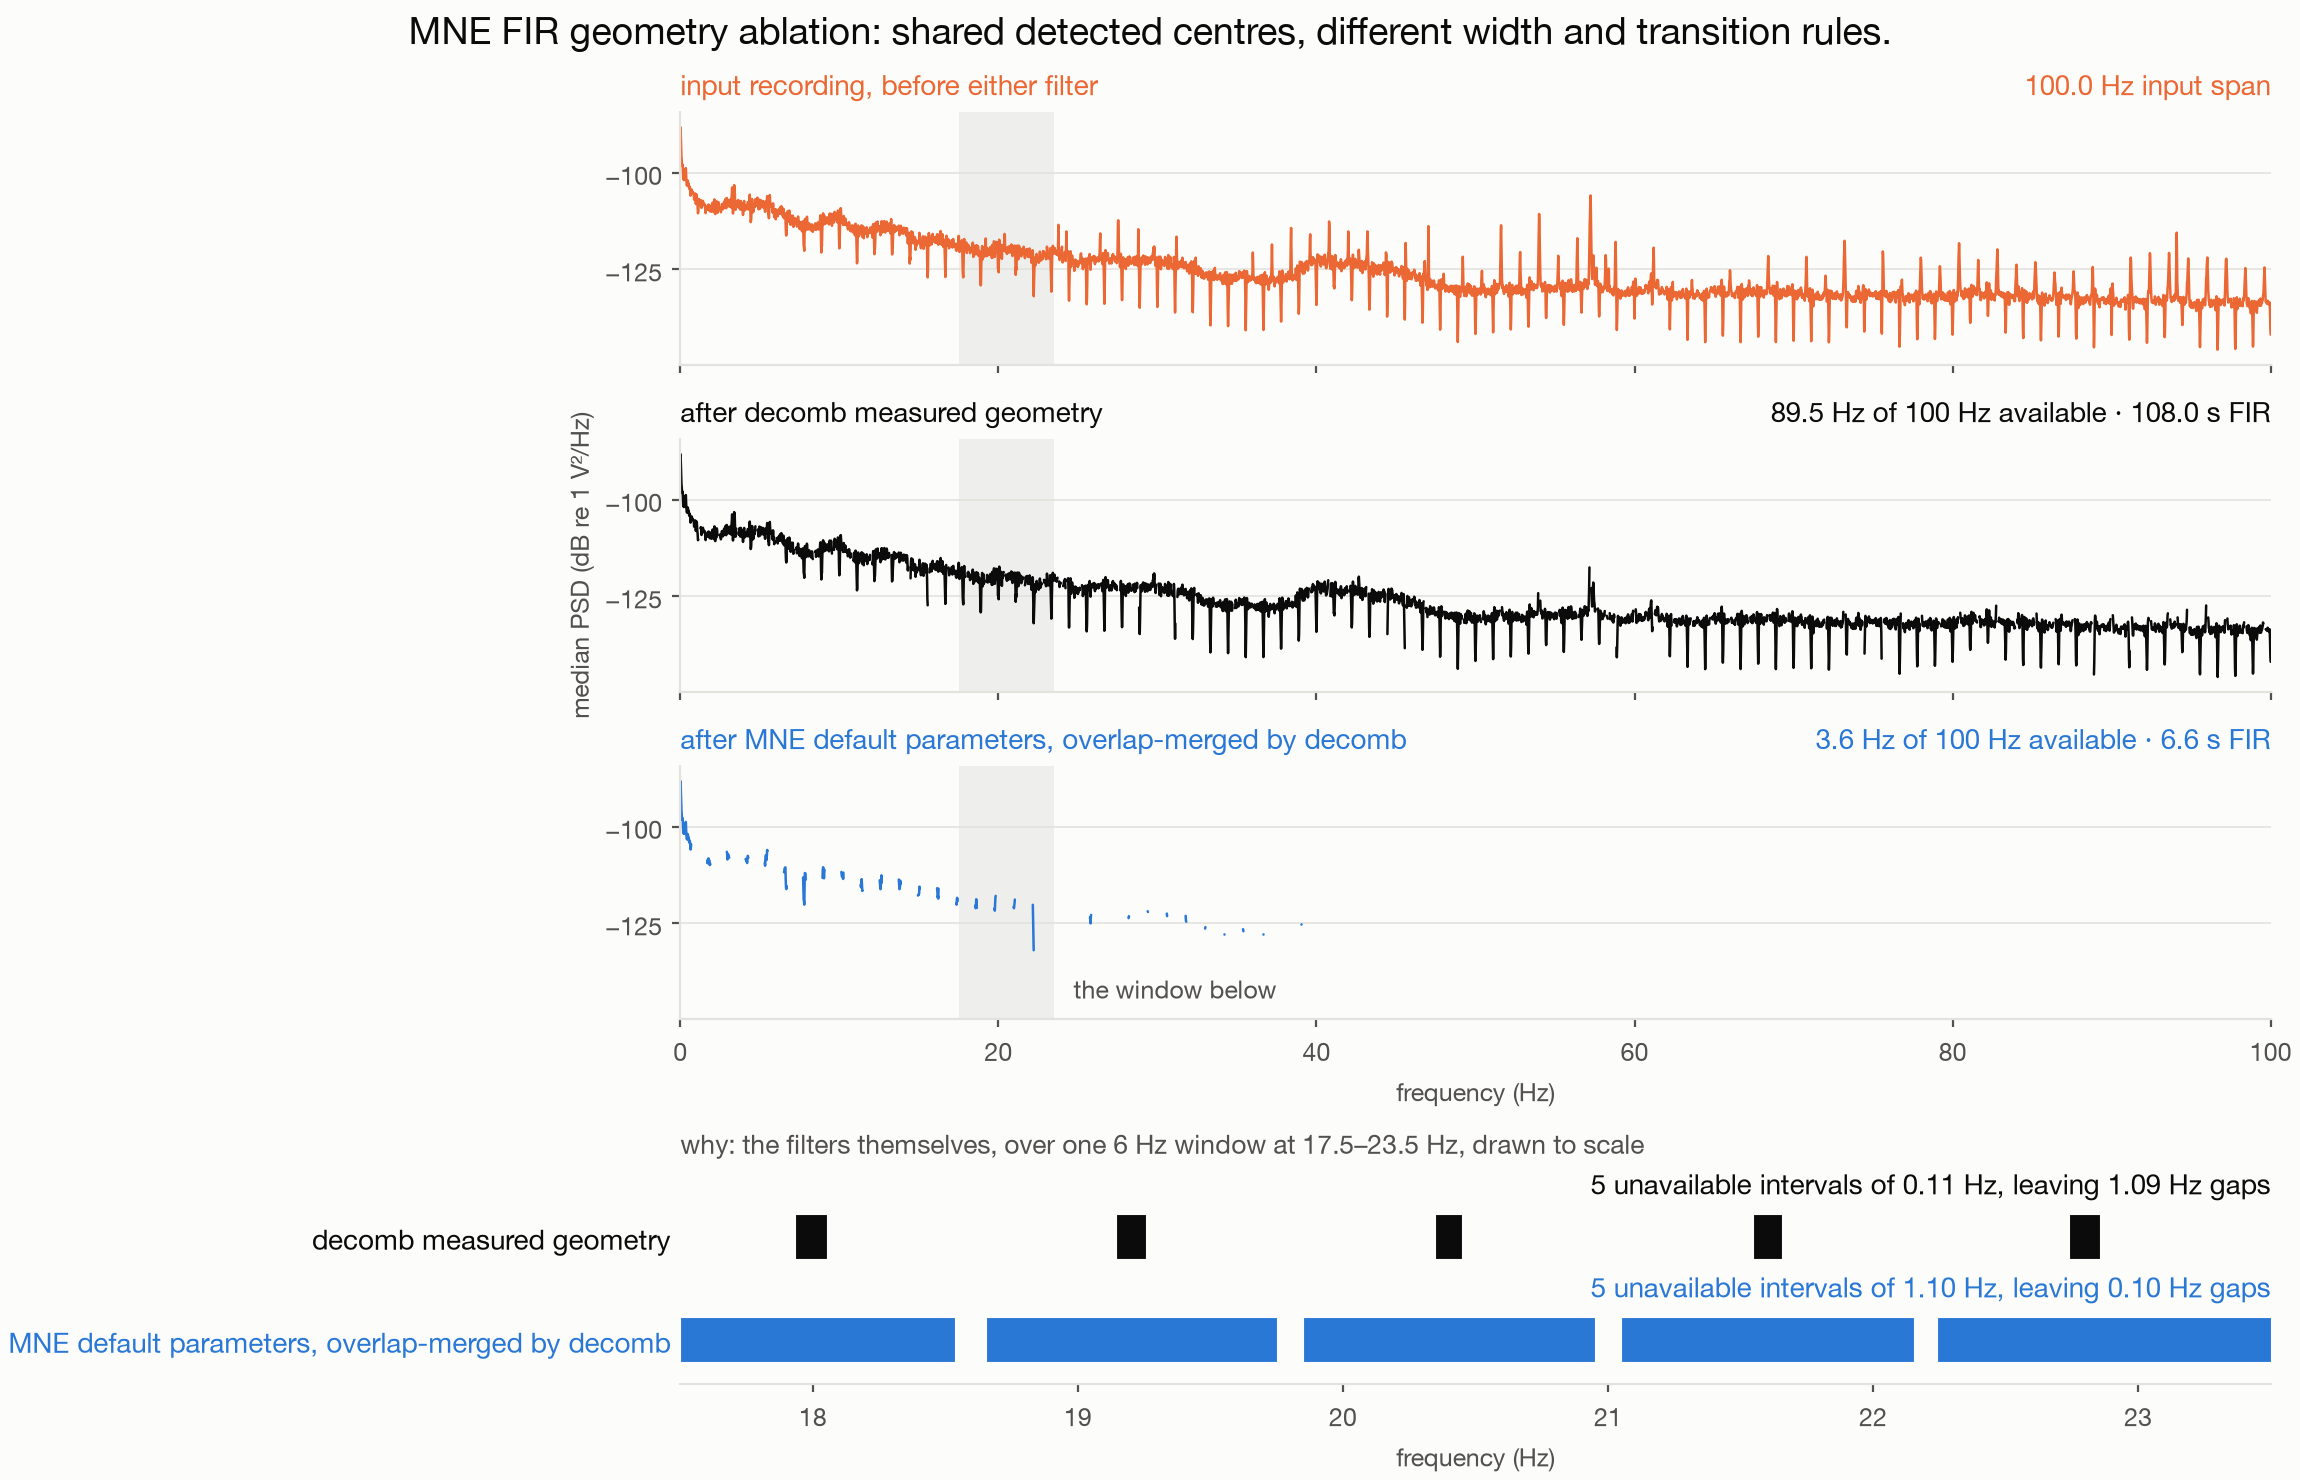
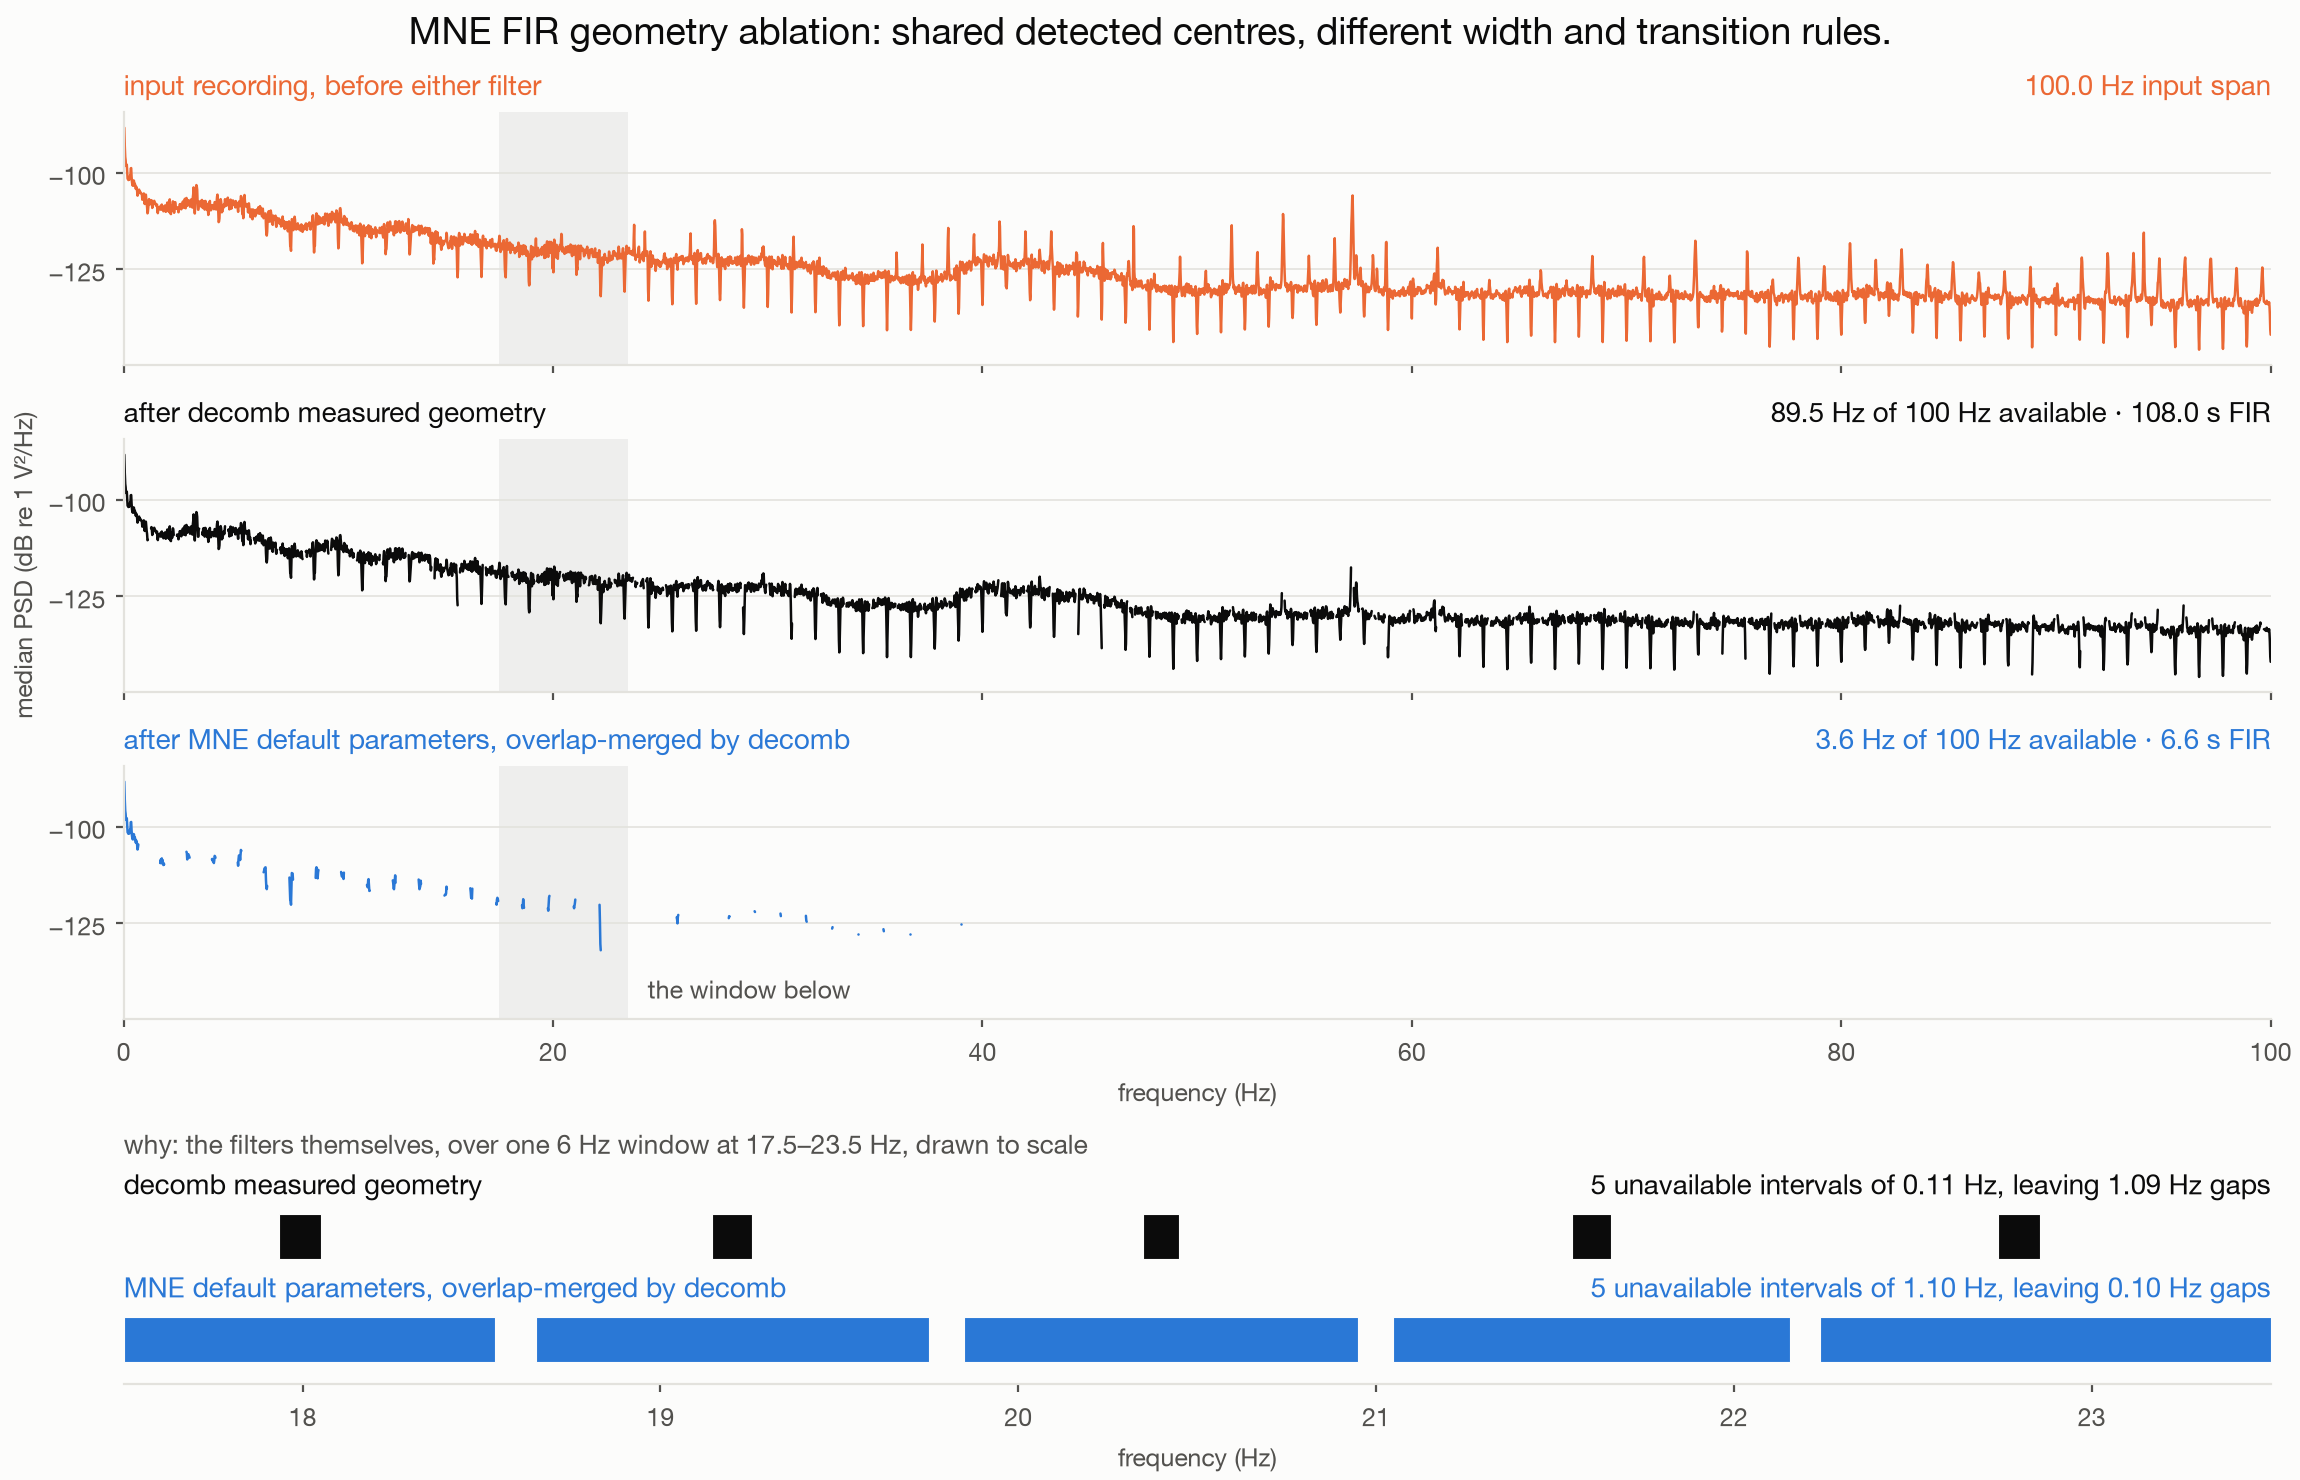
Move geometry labels into plot area

diff --git a/src/decomb/comparison.py b/src/decomb/comparison.py
@@ -367,7 +367,7 @@ def _draw_geometry_panel(
         ),
     )
     bar_height = 0.26
-    for plan, _name, y_position, colour in rows:
+    for plan, name, y_position, colour in rows:
         spans, description = _window_geometry(plan, detail_range_hz)
         axis.broken_barh(
             [(low_hz, high_hz - low_hz) for low_hz, high_hz in spans],
@@ -376,24 +376,28 @@ def _draw_geometry_panel(
             edgecolor=_SURFACE_COLOUR,
             linewidth=0.4,
         )
-        axis.annotate(
-            description,
-            xy=(detail_range_hz[1], y_position + bar_height / 2.0),
-            xytext=(0.0, 5.0),
-            textcoords="offset points",
-            ha="right",
-            va="bottom",
-            fontsize=10,
-            color=colour,
-        )
+        # Name on the left, measurement on the right, both on one line above the bar.
+        # As y-tick labels these names are the widest thing in the figure, and a shared
+        # gridspec column sizes its left margin to fit them, so they were taking a
+        # quarter of the canvas away from the three spectra that share that column.
+        for text, edge_hz, alignment in (
+            (name, detail_range_hz[0], "left"),
+            (description, detail_range_hz[1], "right"),
+        ):
+            axis.annotate(
+                text,
+                xy=(edge_hz, y_position + bar_height / 2.0),
+                xytext=(0.0, 5.0),
+                textcoords="offset points",
+                ha=alignment,
+                va="bottom",
+                fontsize=10,
+                color=colour,
+            )
 
-    axis.set_yticks([y_position for _, _, y_position, _ in rows], [name for _, name, _, _ in rows])
-    for tick_label, (_, _, _, colour) in zip(axis.get_yticklabels(), rows):
-        tick_label.set_color(colour)
-        tick_label.set_fontsize(10)
+    axis.set_yticks([])
     axis.set_ylim(-0.56, 0.62)
     axis.set_xlim(detail_range_hz)
-    axis.tick_params(axis="y", length=0.0)
     axis.spines["left"].set_visible(False)
     axis.set_xlabel("frequency (Hz)", fontsize=9, color=_MUTED_COLOUR)
 
